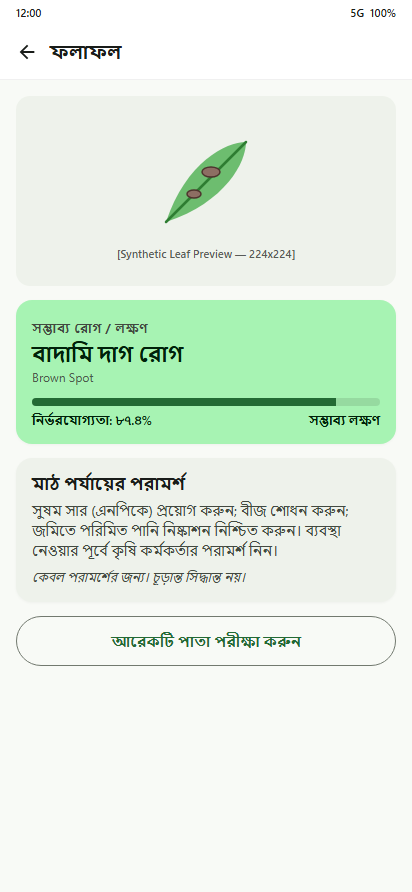
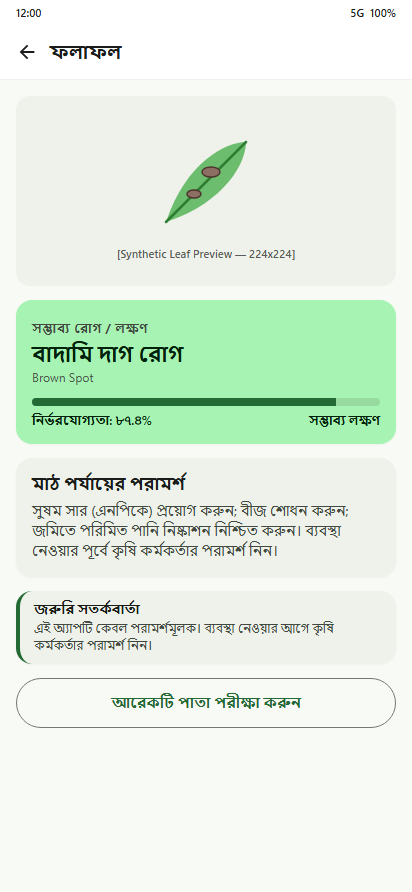
T-060b: design proposal corrections

diff --git a/docs/design/mockups/result_uncertain_dark_bn.html b/docs/design/mockups/result_uncertain_dark_bn.html
@@ -273,7 +273,11 @@ body {
       <!-- D-11 STRICT RULE: NO ADVISORY TEXT OR TREATMENT IS SHOWN -->
       <div class="card card-tonal">
         <h3 class="title-md">করণীয়</h3>
-        <p class="body-md">পাতাটি আপনার নিকটস্থ উপজেলা কৃষি অফিসে নিয়ে যান অথবা উপসহকারী কৃষি কর্মকর্তার সরাসরি পরামর্শ গ্রহণ করুন।</p>
+        <p class="body-md">পাতাটি আপনার নিকটস্থ উপজেলা কৃষি অফিসে (ডিএই) নিয়ে যান এবং কৃষি কর্মকর্তার পরামর্শ গ্রহণ করুন।</p>
+      </div>
+      <div class="card card-tonal" style="border-left: 4px solid var(--primary); padding: 10px 14px;">
+        <h4 class="title-md" style="font-size: 13px; margin-bottom: 2px;">জরুরি সতর্কবার্তা</h4>
+        <p class="body-sm">এই অ্যাপটি কেবল পরামর্শমূলক। ব্যবস্থা নেওয়ার আগে কৃষি কর্মকর্তার পরামর্শ নিন।</p>
       </div>
       <button class="btn-primary">
         <svg width="20" height="20" viewBox="0 0 24 24" fill="currentColor"><path d="M12 15.2a3.2 3.2 0 100-6.4 3.2 3.2 0 000 6.4z"/><path d="M9 2L7.17 4H4c-1.1 0-2 .9-2 2v12c0 1.1.9 2 2 2h16c1.1 0 2-.9 2-2V6c0-1.1-.9-2-2-2h-3.17L15 2H9zm3 15c-2.76 0-5-2.24-5-5s2.24-5 5-5 5 2.24 5 5-2.24 5-5 5z"/></svg>

diff --git a/docs/design/mockups/result_uncertain_light_bn.html b/docs/design/mockups/result_uncertain_light_bn.html
@@ -273,7 +273,11 @@ body {
       <!-- D-11 STRICT RULE: NO ADVISORY TEXT OR TREATMENT IS SHOWN -->
       <div class="card card-tonal">
         <h3 class="title-md">করণীয়</h3>
-        <p class="body-md">পাতাটি আপনার নিকটস্থ উপজেলা কৃষি অফিসে নিয়ে যান অথবা উপসহকারী কৃষি কর্মকর্তার সরাসরি পরামর্শ গ্রহণ করুন।</p>
+        <p class="body-md">পাতাটি আপনার নিকটস্থ উপজেলা কৃষি অফিসে (ডিএই) নিয়ে যান এবং কৃষি কর্মকর্তার পরামর্শ গ্রহণ করুন।</p>
+      </div>
+      <div class="card card-tonal" style="border-left: 4px solid var(--primary); padding: 10px 14px;">
+        <h4 class="title-md" style="font-size: 13px; margin-bottom: 2px;">জরুরি সতর্কবার্তা</h4>
+        <p class="body-sm">এই অ্যাপটি কেবল পরামর্শমূলক। ব্যবস্থা নেওয়ার আগে কৃষি কর্মকর্তার পরামর্শ নিন।</p>
       </div>
       <button class="btn-primary">
         <svg width="20" height="20" viewBox="0 0 24 24" fill="currentColor"><path d="M12 15.2a3.2 3.2 0 100-6.4 3.2 3.2 0 000 6.4z"/><path d="M9 2L7.17 4H4c-1.1 0-2 .9-2 2v12c0 1.1.9 2 2 2h16c1.1 0 2-.9 2-2V6c0-1.1-.9-2-2-2h-3.17L15 2H9zm3 15c-2.76 0-5-2.24-5-5s2.24-5 5-5 5 2.24 5 5-2.24 5-5 5z"/></svg>

diff --git a/docs/design/mockups/result_confident_dark_bn.html b/docs/design/mockups/result_confident_dark_bn.html
@@ -275,7 +275,10 @@ body {
       <div class="card card-tonal">
         <h3 class="title-md">মাঠ পর্যায়ের পরামর্শ</h3>
         <p class="body-md">সুষম সার (এনপিকে) প্রয়োগ করুন; বীজ শোধন করুন; জমিতে পরিমিত পানি নিষ্কাশন নিশ্চিত করুন। ব্যবস্থা নেওয়ার পূর্বে কৃষি কর্মকর্তার পরামর্শ নিন।</p>
-        <p class="body-sm" style="margin-top: 8px; font-style: italic;">কেবল পরামর্শের জন্য। চূড়ান্ত সিদ্ধান্ত নয়।</p>
+      </div>
+      <div class="card card-tonal" style="border-left: 4px solid var(--primary); padding: 10px 14px;">
+        <h4 class="title-md" style="font-size: 13px; margin-bottom: 2px;">জরুরি সতর্কবার্তা</h4>
+        <p class="body-sm">এই অ্যাপটি কেবল পরামর্শমূলক। ব্যবস্থা নেওয়ার আগে কৃষি কর্মকর্তার পরামর্শ নিন।</p>
       </div>
       <button class="btn-outlined">আরেকটি পাতা পরীক্ষা করুন</button>
     </div>

diff --git a/docs/design/mockups/result_confident_light_bn.html b/docs/design/mockups/result_confident_light_bn.html
@@ -275,7 +275,10 @@ body {
       <div class="card card-tonal">
         <h3 class="title-md">মাঠ পর্যায়ের পরামর্শ</h3>
         <p class="body-md">সুষম সার (এনপিকে) প্রয়োগ করুন; বীজ শোধন করুন; জমিতে পরিমিত পানি নিষ্কাশন নিশ্চিত করুন। ব্যবস্থা নেওয়ার পূর্বে কৃষি কর্মকর্তার পরামর্শ নিন।</p>
-        <p class="body-sm" style="margin-top: 8px; font-style: italic;">কেবল পরামর্শের জন্য। চূড়ান্ত সিদ্ধান্ত নয়।</p>
+      </div>
+      <div class="card card-tonal" style="border-left: 4px solid var(--primary); padding: 10px 14px;">
+        <h4 class="title-md" style="font-size: 13px; margin-bottom: 2px;">জরুরি সতর্কবার্তা</h4>
+        <p class="body-sm">এই অ্যাপটি কেবল পরামর্শমূলক। ব্যবস্থা নেওয়ার আগে কৃষি কর্মকর্তার পরামর্শ নিন।</p>
       </div>
       <button class="btn-outlined">আরেকটি পাতা পরীক্ষা করুন</button>
     </div>

diff --git a/docs/design/mockups/result_uncertain_dark_en.html b/docs/design/mockups/result_uncertain_dark_en.html
@@ -273,7 +273,11 @@ body {
       <!-- D-11 STRICT RULE: NO ADVISORY TEXT OR TREATMENT IS SHOWN -->
       <div class="card card-tonal">
         <h3 class="title-md">Recommended Next Step</h3>
-        <p class="body-md">Take this leaf sample to your nearest Upazila Agriculture Extension Office (DAE) or consult a local sub-assistant agriculture officer for expert evaluation.</p>
+        <p class="body-md">Take this leaf sample to your nearest Upazila Agriculture Office (DAE) for expert evaluation.</p>
+      </div>
+      <div class="card card-tonal" style="border-left: 4px solid var(--primary); padding: 10px 14px;">
+        <h4 class="title-md" style="font-size: 13px; margin-bottom: 2px;">Advisory Notice</h4>
+        <p class="body-sm">This tool provides advisory identification only. Consult an agricultural expert before taking action.</p>
       </div>
       <button class="btn-primary">
         <svg width="20" height="20" viewBox="0 0 24 24" fill="currentColor"><path d="M12 15.2a3.2 3.2 0 100-6.4 3.2 3.2 0 000 6.4z"/><path d="M9 2L7.17 4H4c-1.1 0-2 .9-2 2v12c0 1.1.9 2 2 2h16c1.1 0 2-.9 2-2V6c0-1.1-.9-2-2-2h-3.17L15 2H9zm3 15c-2.76 0-5-2.24-5-5s2.24-5 5-5 5 2.24 5 5-2.24 5-5 5z"/></svg>

diff --git a/docs/design/mockups/result_uncertain_light_en.html b/docs/design/mockups/result_uncertain_light_en.html
@@ -273,7 +273,11 @@ body {
       <!-- D-11 STRICT RULE: NO ADVISORY TEXT OR TREATMENT IS SHOWN -->
       <div class="card card-tonal">
         <h3 class="title-md">Recommended Next Step</h3>
-        <p class="body-md">Take this leaf sample to your nearest Upazila Agriculture Extension Office (DAE) or consult a local sub-assistant agriculture officer for expert evaluation.</p>
+        <p class="body-md">Take this leaf sample to your nearest Upazila Agriculture Office (DAE) for expert evaluation.</p>
+      </div>
+      <div class="card card-tonal" style="border-left: 4px solid var(--primary); padding: 10px 14px;">
+        <h4 class="title-md" style="font-size: 13px; margin-bottom: 2px;">Advisory Notice</h4>
+        <p class="body-sm">This tool provides advisory identification only. Consult an agricultural expert before taking action.</p>
       </div>
       <button class="btn-primary">
         <svg width="20" height="20" viewBox="0 0 24 24" fill="currentColor"><path d="M12 15.2a3.2 3.2 0 100-6.4 3.2 3.2 0 000 6.4z"/><path d="M9 2L7.17 4H4c-1.1 0-2 .9-2 2v12c0 1.1.9 2 2 2h16c1.1 0 2-.9 2-2V6c0-1.1-.9-2-2-2h-3.17L15 2H9zm3 15c-2.76 0-5-2.24-5-5s2.24-5 5-5 5 2.24 5 5-2.24 5-5 5z"/></svg>

diff --git a/docs/design/mockups/result_confident_dark_en.html b/docs/design/mockups/result_confident_dark_en.html
@@ -275,7 +275,10 @@ body {
       <div class="card card-tonal">
         <h3 class="title-md">Field Advisory</h3>
         <p class="body-md">Apply balanced fertilizer (NPK); use certified disease-free seeds; ensure field drainage. Consult an agricultural extension officer before taking action.</p>
-        <p class="body-sm" style="margin-top: 8px; font-style: italic;">Advisory only. Not a formal diagnosis.</p>
+      </div>
+      <div class="card card-tonal" style="border-left: 4px solid var(--primary); padding: 10px 14px;">
+        <h4 class="title-md" style="font-size: 13px; margin-bottom: 2px;">Advisory Notice</h4>
+        <p class="body-sm">This tool provides advisory identification only. Consult an agricultural expert before taking action.</p>
       </div>
       <button class="btn-outlined">Scan Another Leaf</button>
     </div>

diff --git a/docs/design/mockups/result_confident_light_en.html b/docs/design/mockups/result_confident_light_en.html
@@ -275,7 +275,10 @@ body {
       <div class="card card-tonal">
         <h3 class="title-md">Field Advisory</h3>
         <p class="body-md">Apply balanced fertilizer (NPK); use certified disease-free seeds; ensure field drainage. Consult an agricultural extension officer before taking action.</p>
-        <p class="body-sm" style="margin-top: 8px; font-style: italic;">Advisory only. Not a formal diagnosis.</p>
+      </div>
+      <div class="card card-tonal" style="border-left: 4px solid var(--primary); padding: 10px 14px;">
+        <h4 class="title-md" style="font-size: 13px; margin-bottom: 2px;">Advisory Notice</h4>
+        <p class="body-sm">This tool provides advisory identification only. Consult an agricultural expert before taking action.</p>
       </div>
       <button class="btn-outlined">Scan Another Leaf</button>
     </div>

diff --git a/docs/design/mockups/about_dark.html b/docs/design/mockups/about_dark.html
@@ -263,11 +263,6 @@ body {
       </div>
 
       <div class="card card-tonal">
-        <h4 class="title-md">Dataset Attribution</h4>
-        <p class="body-sm">Trained on public rice leaf dataset by Mehedi Hasan, Sonia Khatun, Md. Abu Raihan, Abdul Hasib Uddin (Khwaja Yunus Ali University, Sirajganj, Bangladesh).<br>Licensed under Creative Commons Attribution 4.0 International (CC BY 4.0).<br>DOI: 10.17632/hx6f852hw4.2</p>
-      </div>
-
-      <div class="card card-tonal">
         <h4 class="title-md">Advisory Disclaimer</h4>
         <p class="body-sm">This tool is advisory only and provides leaf condition identification from photos. It does not replace professional agricultural advice. Please consult an agricultural extension officer before taking action.</p>
       </div>

diff --git a/docs/design/mockups/about_light.html b/docs/design/mockups/about_light.html
@@ -263,11 +263,6 @@ body {
       </div>
 
       <div class="card card-tonal">
-        <h4 class="title-md">Dataset Attribution</h4>
-        <p class="body-sm">Trained on public rice leaf dataset by Mehedi Hasan, Sonia Khatun, Md. Abu Raihan, Abdul Hasib Uddin (Khwaja Yunus Ali University, Sirajganj, Bangladesh).<br>Licensed under Creative Commons Attribution 4.0 International (CC BY 4.0).<br>DOI: 10.17632/hx6f852hw4.2</p>
-      </div>
-
-      <div class="card card-tonal">
         <h4 class="title-md">Advisory Disclaimer</h4>
         <p class="body-sm">This tool is advisory only and provides leaf condition identification from photos. It does not replace professional agricultural advice. Please consult an agricultural extension officer before taking action.</p>
       </div>

diff --git a/scripts/build_mockups.py b/scripts/build_mockups.py
@@ -1,7 +1,7 @@
 """
 scripts/build_mockups.py
 
-Generates 20 standalone Material 3 HTML wireframes in docs/design/mockups/,
+Generates 22 standalone Material 3 HTML wireframes in docs/design/mockups/,
 renders them to PNG in docs/screenshots/design_proposal/ using Chrome headless,
 optimizes PNGs under 2 MB, and creates docs/design/index.html.
 """
@@ -457,7 +457,10 @@ for theme in ["light", "dark"]:
       <div class="card card-tonal">
         <h3 class="title-md">Field Advisory</h3>
         <p class="body-md">Apply balanced fertilizer (NPK); use certified disease-free seeds; ensure field drainage. Consult an agricultural extension officer before taking action.</p>
-        <p class="body-sm" style="margin-top: 8px; font-style: italic;">Advisory only. Not a formal diagnosis.</p>
+      </div>
+      <div class="card card-tonal" style="border-left: 4px solid var(--primary); padding: 10px 14px;">
+        <h4 class="title-md" style="font-size: 13px; margin-bottom: 2px;">Advisory Notice</h4>
+        <p class="body-sm">This tool provides advisory identification only. Consult an agricultural expert before taking action.</p>
       </div>
       <button class="btn-outlined">Scan Another Leaf</button>
     </div>
@@ -484,7 +487,10 @@ for theme in ["light", "dark"]:
       <div class="card card-tonal">
         <h3 class="title-md">মাঠ পর্যায়ের পরামর্শ</h3>
         <p class="body-md">সুষম সার (এনপিকে) প্রয়োগ করুন; বীজ শোধন করুন; জমিতে পরিমিত পানি নিষ্কাশন নিশ্চিত করুন। ব্যবস্থা নেওয়ার পূর্বে কৃষি কর্মকর্তার পরামর্শ নিন।</p>
-        <p class="body-sm" style="margin-top: 8px; font-style: italic;">কেবল পরামর্শের জন্য। চূড়ান্ত সিদ্ধান্ত নয়।</p>
+      </div>
+      <div class="card card-tonal" style="border-left: 4px solid var(--primary); padding: 10px 14px;">
+        <h4 class="title-md" style="font-size: 13px; margin-bottom: 2px;">জরুরি সতর্কবার্তা</h4>
+        <p class="body-sm">এই অ্যাপটি কেবল পরামর্শমূলক। ব্যবস্থা নেওয়ার আগে কৃষি কর্মকর্তার পরামর্শ নিন।</p>
       </div>
       <button class="btn-outlined">আরেকটি পাতা পরীক্ষা করুন</button>
     </div>
@@ -513,7 +519,11 @@ for theme in ["light", "dark"]:
       <!-- D-11 STRICT RULE: NO ADVISORY TEXT OR TREATMENT IS SHOWN -->
       <div class="card card-tonal">
         <h3 class="title-md">Recommended Next Step</h3>
-        <p class="body-md">Take this leaf sample to your nearest Upazila Agriculture Extension Office (DAE) or consult a local sub-assistant agriculture officer for expert evaluation.</p>
+        <p class="body-md">Take this leaf sample to your nearest Upazila Agriculture Office (DAE) for expert evaluation.</p>
+      </div>
+      <div class="card card-tonal" style="border-left: 4px solid var(--primary); padding: 10px 14px;">
+        <h4 class="title-md" style="font-size: 13px; margin-bottom: 2px;">Advisory Notice</h4>
+        <p class="body-sm">This tool provides advisory identification only. Consult an agricultural expert before taking action.</p>
       </div>
       <button class="btn-primary">
         <svg width="20" height="20" viewBox="0 0 24 24" fill="currentColor"><path d="M12 15.2a3.2 3.2 0 100-6.4 3.2 3.2 0 000 6.4z"/><path d="M9 2L7.17 4H4c-1.1 0-2 .9-2 2v12c0 1.1.9 2 2 2h16c1.1 0 2-.9 2-2V6c0-1.1-.9-2-2-2h-3.17L15 2H9zm3 15c-2.76 0-5-2.24-5-5s2.24-5 5-5 5 2.24 5 5-2.24 5-5 5z"/></svg>
@@ -542,7 +552,11 @@ for theme in ["light", "dark"]:
       <!-- D-11 STRICT RULE: NO ADVISORY TEXT OR TREATMENT IS SHOWN -->
       <div class="card card-tonal">
         <h3 class="title-md">করণীয়</h3>
-        <p class="body-md">পাতাটি আপনার নিকটস্থ উপজেলা কৃষি অফিসে নিয়ে যান অথবা উপসহকারী কৃষি কর্মকর্তার সরাসরি পরামর্শ গ্রহণ করুন।</p>
+        <p class="body-md">পাতাটি আপনার নিকটস্থ উপজেলা কৃষি অফিসে (ডিএই) নিয়ে যান এবং কৃষি কর্মকর্তার পরামর্শ গ্রহণ করুন।</p>
+      </div>
+      <div class="card card-tonal" style="border-left: 4px solid var(--primary); padding: 10px 14px;">
+        <h4 class="title-md" style="font-size: 13px; margin-bottom: 2px;">জরুরি সতর্কবার্তা</h4>
+        <p class="body-sm">এই অ্যাপটি কেবল পরামর্শমূলক। ব্যবস্থা নেওয়ার আগে কৃষি কর্মকর্তার পরামর্শ নিন।</p>
       </div>
       <button class="btn-primary">
         <svg width="20" height="20" viewBox="0 0 24 24" fill="currentColor"><path d="M12 15.2a3.2 3.2 0 100-6.4 3.2 3.2 0 000 6.4z"/><path d="M9 2L7.17 4H4c-1.1 0-2 .9-2 2v12c0 1.1.9 2 2 2h16c1.1 0 2-.9 2-2V6c0-1.1-.9-2-2-2h-3.17L15 2H9zm3 15c-2.76 0-5-2.24-5-5s2.24-5 5-5 5 2.24 5 5-2.24 5-5 5z"/></svg>
@@ -635,11 +649,6 @@ for theme in ["light", "dark"]:
       </div>
 
       <div class="card card-tonal">
-        <h4 class="title-md">Dataset Attribution</h4>
-        <p class="body-sm">Trained on public rice leaf dataset by Mehedi Hasan, Sonia Khatun, Md. Abu Raihan, Abdul Hasib Uddin (Khwaja Yunus Ali University, Sirajganj, Bangladesh).<br>Licensed under Creative Commons Attribution 4.0 International (CC BY 4.0).<br>DOI: 10.17632/hx6f852hw4.2</p>
-      </div>
-
-      <div class="card card-tonal">
         <h4 class="title-md">Advisory Disclaimer</h4>
         <p class="body-sm">This tool is advisory only and provides leaf condition identification from photos. It does not replace professional agricultural advice. Please consult an agricultural extension officer before taking action.</p>
       </div>
@@ -648,7 +657,7 @@ for theme in ["light", "dark"]:
     html = generate_html(f"About ({theme})", theme, about_content, app_bar_title="About & Credits", active_tab="about")
     (MOCKUPS_DIR / f"about_{theme}.html").write_text(html, encoding="utf-8")
 
-print(f"All 20 HTML files generated successfully in {MOCKUPS_DIR}")
+print(f"All 22 HTML files generated successfully in {MOCKUPS_DIR}")
 
 # ==============================================================================
 # 9. RENDER PNGs VIA CHROME HEADLESS

diff --git a/docs/design/ui_spec.md b/docs/design/ui_spec.md
@@ -96,7 +96,7 @@ The primary operational screen allowing farmers and extension officers to captur
 ---
 
 ### 3.4 Result Screen: Confident State ($\ge 60\%$ Confidence)
-Rendered when model top prediction has confidence $\ge 60\%$. Displays condition name, confidence %, and field advisory note.
+Rendered when model top prediction has confidence $\ge 60\%$. Displays condition name, confidence %, field advisory note, and compact disclaimer card.
 
 - **Layout Structure**: Top App Bar with back arrow, vertical scrollable content.
 
@@ -106,13 +106,14 @@ Rendered when model top prediction has confidence $\ge 60\%$. Displays condition
 | 2 | Upper Body | `image` (Captured Photo Preview) | Full width, 200 dp height | Thumbnail of analyzed leaf photo | `surfaceVariant` (border) | Displays image preview with subtle rounded corners (12 dp). |
 | 3 | Middle Body | `card` (Likely Condition Card) | Full width, ~140 dp height | Header: `"Likely Condition"` [NEW] / `"সম্ভাব্য রোগ / লক্ষণ"` [NEW]. Title: Disease Name (e.g., `"Brown Spot"` (`diseaseBrownSpot`) / `"বাদামি দাগ রোগ"`). Subtitle: Alternate language name. | Card: `primaryContainer`; Title: `onPrimaryContainer` (bold 22sp); Subtitle: `onPrimaryContainer` (14sp) | High-prominence card identifying the likely condition. |
 | 4 | Inside Condition Card | `bar` (Confidence Bar) + `text` | Height 8 dp bar + 20 dp text | `"Confidence: 87.4% (Likely)"` (`confidenceLabel` + [NEW]) / `"নির্ভরযোগ্যতা: ৮৭.৪% (সম্ভাব্য)"` | Progress: `primary`; Track: `surfaceVariant`; Text: `onPrimaryContainer` | Horizontal progress bar showing confidence percentage. If reduce-motion is enabled, renders filled bar without fill animation. |
-| 5 | Lower Body | `card` (Field Advisory Card) | Full width, ~160 dp height | Header: `"Field Advisory"` (`advisoryTitle`) / `"মাঠ পর্যায়ের পরামর্শ"`. Body: Recommended agricultural management practices from local JSON. Footer: `"Consult an upazila agricultural extension officer before taking chemical measures."` [NEW] | `surfaceVariant` (bg), `onSurfaceVariant` (text) | Displays non-prescriptive advisory note (F-06). |
-| 6 | Bottom Body | `button` (OutlinedButton) | Full width, 50 dp height | Icon: `Icons.replay`; Label: `"Scan Another Leaf"` [NEW] / `"আরেকটি পাতা পরীক্ষা করুন"` [NEW] | `outline` (border), `primary` (text/icon) | Clears state and returns to Scan screen. |
+| 5 | Lower Body | `card` (Field Advisory Card) | Full width, ~160 dp height | Header: `"Field Advisory"` (`advisoryTitle`) / `"মাঠ পর্যায়ের পরামর্শ"`. Body: Recommended agricultural management practices from local JSON. Footer: `"Consult an upazila agricultural extension officer before taking chemical measures."` [NEW] | `surfaceVariant` (bg), `onSurfaceVariant` (text) | Displays non-prescriptive advisory note (F-06). Prohibited terms like "diagnosis" and "cure" strictly omitted. |
+| 6 | Lower Body | `card` (Compact Disclaimer Card) | Full width, ~70 dp height | Header: `"Advisory Notice"` (`disclaimerTitle`) / `"জরুরি সতর্কবার্তা"`. Text: `"This tool provides advisory identification only. Consult an agricultural expert before taking action."` [NEW] / `"এই অ্যাপটি কেবল পরামর্শমূলক। ব্যবস্থা নেওয়ার আগে কৃষি কর্মকর্তার পরামর্শ নিন।"` [NEW] | `surfaceVariant` (bg), `onSurfaceVariant` (text) | Compact disclaimer card (F-08) rendered permanently. |
+| 7 | Bottom Body | `button` (OutlinedButton) | Full width, 50 dp height | Icon: `Icons.replay`; Label: `"Scan Another Leaf"` [NEW] / `"আরেকটি পাতা পরীক্ষা করুন"` [NEW] | `outline` (border), `primary` (text/icon) | Clears state and returns to Scan screen. |
 
 ---
 
 ### 3.5 Result Screen: Uncertain State ($< 60\%$ Confidence)
-Rendered when model top prediction has confidence $< 60\%$ (D-11, F-05). Displays warning banner and weak guess; **strictly omits field advisory / treatment section**.
+Rendered when model top prediction has confidence $< 60\%$ (D-11, F-05). Displays warning banner and weak guess; **strictly omits field advisory / treatment section**; includes next steps directing user to Upazila Agriculture Office (DAE) and compact disclaimer card.
 
 - **Layout Structure**: Top App Bar with back arrow, vertical scrollable content.
 
@@ -123,8 +124,10 @@ Rendered when model top prediction has confidence $< 60\%$ (D-11, F-05). Display
 | 3 | Middle Body | `banner` / `card` (Uncertain Warning Banner) | Full width, ~180 dp height | Icon: `Icons.warning_amber_rounded` (36 dp). Title: `"Uncertain Result"` (`uncertainTitle`) / `"অনিশ্চিত ফলাফল"`. Body: `"Confidence is low. Please consult an agricultural expert for guidance."` (`uncertainDescription`) / `app_bn.arb`. | Container: `errorContainer`; Title & Icon: `onErrorContainer` (bold 20sp); Body: `onErrorContainer` (14sp) | High-visibility warning container. Informs farmer that AI confidence is below safety threshold (D-11). |
 | 4 | Inside Banner | `card` (Weak Guess Pill) | Full width, ~50 dp height | `"Possible condition: Brown Spot (52.0%)"` (`weakGuessPrefix` + [NEW]) / `"সম্ভাব্য লক্ষণ: বাদামি দাগ রোগ (৫২.০%)"` | Container: `surface` (50% opacity); Text: `onErrorContainer` (medium 14sp) | Reports top class strictly as an unconfirmed weak guess. |
 | 5 | Hidden Section | **NO ADVISORY CARD** | 0 dp height | None | N/A | **Enforces Rule D-11**: The field advisory section is entirely hidden. No spray, fertilizer, or cultural treatment advice is displayed. |
-| 6 | Lower Body | `card` (Next Steps Card) | Full width, ~110 dp height | Header: `"Recommended Next Step"` [NEW] / `"করণীয়"` [NEW]. Text: `"Show this leaf sample to your local Upazila Agriculture Office (DAE) or sub-assistant agriculture officer."` [NEW] / `"এই পাতাটি আপনার স্থানীয় উপসহকারী কৃষি কর্মকর্তাকে দেখান।"` [NEW] | `surfaceVariant` (bg), `onSurfaceVariant` (text) | Directs farmer to local human expert. |
-| 7 | Bottom Body | `button` (FilledButton) | Full width, 50 dp height | Icon: `Icons.camera_alt`; Label: `"Retake Photo in Better Light"` [NEW] / `"ভালো আলোতে পুনরায় ছবি তুলুন"` [NEW] | `primary` (bg), `onPrimary` (text) | Encourages retaking photo with better lighting or focus. |
+| 6 | Lower Body | `card` (Next Steps Card) | Full width, ~110 dp height | Header: `"Recommended Next Step"` [NEW] / `"করণীয়"` [NEW]. Text: `"Take this leaf sample to your nearest Upazila Agriculture Office (DAE) for expert evaluation."` [NEW] / `"পাতাটি আপনার নিকটস্থ উপজেলা কৃষি অফিসে (ডিএই) নিয়ে যান এবং কৃষি কর্মকর্তার পরামর্শ গ্রহণ করুন।"` [NEW] | `surfaceVariant` (bg), `onSurfaceVariant` (text) | Directs farmer to Upazila Agriculture Office (DAE). |
+| 7 | Lower Body | `card` (Compact Disclaimer Card) | Full width, ~70 dp height | Header: `"Advisory Notice"` (`disclaimerTitle`) / `"জরুরি সতর্কবার্তা"`. Text: `"This tool provides advisory identification only. Consult an agricultural expert before taking action."` [NEW] / `"এই অ্যাপটি কেবল পরামর্শমূলক। ব্যবস্থা নেওয়ার আগে কৃষি কর্মকর্তার পরামর্শ নিন।"` [NEW] | `surfaceVariant` (bg), `onSurfaceVariant` (text) | Compact disclaimer card (F-08) rendered permanently. |
+| 8 | Bottom Body | `button` (FilledButton) | Full width, 50 dp height | Icon: `Icons.camera_alt`; Label: `"Retake Photo in Better Light"` [NEW] / `"ভালো আলোতে পুনরায় ছবি তুলুন"` [NEW] | `primary` (bg), `onPrimary` (text) | Encourages retaking photo with better lighting or focus. |
+| 9 | Bottom Body | `button` (OutlinedButton) | Full width, 50 dp height | Icon: `Icons.arrow_back`; Label: `"Back to Scan"` [NEW] / `"স্ক্যানে ফিরে যান"` [NEW] | `outline` (border), `primary` (text/icon) | Returns to Scan screen. |
 
 ---
 
@@ -152,7 +155,7 @@ Rendered when model top prediction has confidence $< 60\%$ (D-11, F-05). Display
 ---
 
 ### 3.7 About Screen (Inside Shell: Tab 3)
-Contains app identification, academic credits, third-party licenses, and official disclaimer.
+Contains app identification, academic credits, third-party licenses, and official disclaimer. Verbatim dataset attribution is excluded per project policy (retained only in `README.md` and `docs/dataset_card.md`).
 
 - **Layout Structure**: Vertical scrollable column.
 
@@ -161,8 +164,7 @@ Contains app identification, academic credits, third-party licenses, and officia
 | 1 | Top | `app bar` | Full width, 56 dp height | Title: `"About & Credits"` (`aboutTitle` / [NEW]) / `"অ্যাপ পরিচিতি ও স্বীকৃতি"` [NEW] | `surface` (bg), `onSurface` (text) | App bar. |
 | 2 | Top Body | `card` (App Identity Card) | Full width, ~100 dp height | App Name: `"Rice Leaf Disease Detection"` (`appTitle`). Version: `"Version 1.0.0 (Build 1)"` (`versionLabel` + [NEW]). Researcher: `"Mehedi Hasan — B.Sc. Final Year Project"` [NEW] | Container: `primaryContainer`; Text: `onPrimaryContainer` | Identifies application and academic project attribution. |
 | 3 | Middle Body | `card` (Open Source & License) | Full width, ~140 dp height | Header: `"License Information"` (`licenseTitle`). Body: `"Released under the MIT License (D-01).\nEmbedded font Noto Sans Bengali licensed under SIL Open Font License, Version 1.1 (OFL-1.1)."` (`licenseText` / `docs/licenses_third_party.md`). | `surfaceVariant` (bg), `onSurfaceVariant` (text) | Legal license declaration. |
-| 4 | Middle Body | `card` (Dataset Attribution) | Full width, ~180 dp height | Header: `"Dataset Credits (Hasan et al.)"` (`creditsTitle`). Body: `"Trained on public rice leaf disease dataset by Mehedi Hasan, Sonia Khatun, Md. Abu Raihan, Abdul Hasib Uddin (Khwaja Yunus Ali University, Sirajganj, Bangladesh).\nLicensed under Creative Commons Attribution 4.0 International (CC BY 4.0).\nDOI: 10.17632/hx6f852hw4.2"` (`data/metadata/licenses.md`). | `surfaceVariant` (bg), `onSurfaceVariant` (text) | Exact academic attribution mandated by CC BY 4.0 and Section 12. |
-| 5 | Lower Body | `card` (Advisory Notice) | Full width, ~130 dp height | Header: `"Advisory Disclaimer"` (`disclaimerTitle`). Body: `"This tool is advisory only and provides leaf condition identification from photos. It does not replace professional agricultural advice. Please consult an agricultural extension officer before taking action."` (`disclaimerText`). | Card: `surfaceVariant`; Text: `onSurfaceVariant` | Mandatory visible legal disclaimer (F-08). |
+| 4 | Lower Body | `card` (Advisory Notice) | Full width, ~130 dp height | Header: `"Advisory Disclaimer"` (`disclaimerTitle`). Body: `"This tool is advisory only and provides leaf condition identification from photos. It does not replace professional agricultural advice. Please consult an agricultural extension officer before taking action."` (`disclaimerText`). | Card: `surfaceVariant`; Text: `onSurfaceVariant` | Mandatory visible legal disclaimer (F-08). |
 
 ---
 
@@ -192,7 +194,8 @@ Contains app identification, academic credits, third-party licenses, and officia
      │ [ Result: Confident ]      [ Result: Uncertain ]                                │
      │  - Likely condition card    - Warning banner (D-11)                             │
      │  - Confidence %             - Weak guess (no treatment)                         │
-     │  - Field advisory           - Expert consult advice                             │
+     │  - Field advisory           - Expert consult advice (DAE)                       │
+     │  - Compact disclaimer card  - Compact disclaimer card                           │
      │                                                                                 │
      │   [ Tab 2: History Screen ]                                                     │
      │     - State A: Empty State (0 scans)                                            │
@@ -201,7 +204,40 @@ Contains app identification, academic credits, third-party licenses, and officia
      │   [ Tab 3: About Screen ]                                                       │
      │     - Version & Author                                                          │
      │     - MIT License & Noto Sans Bengali OFL 1.1                                   │
-     │     - Hasan et al. CC BY 4.0 Citation & DOI                                     │
      │     - Advisory Disclaimer (F-08)                                                │
      └─────────────────────────────────────────────────────────────────────────────────┘
 ```
+
+---
+
+## 5. Mockups & Wireframes Inventory (Count Reconciliation)
+
+The proposed design includes exactly **22 standalone HTML wireframes** and **22 rendered PNG screenshots** covering 8 screens/states across light/dark themes and localizations:
+
+| # | Screen / Feature | Theme & Locale | HTML Wireframe (`docs/design/mockups/`) | Rendered PNG (`docs/screenshots/design_proposal/`) |
+|---|---|---|---|---|
+| 1 | Splash Screen | Light (Default) | `splash_light.html` | `splash_light.png` |
+| 2 | Splash Screen | Dark | `splash_dark.html` | `splash_dark.png` |
+| 3 | Onboarding Screen | Light (EN/BN toggleable) | `onboarding_light.html` | `onboarding_light.png` |
+| 4 | Onboarding Screen | Dark (EN/BN toggleable) | `onboarding_dark.html` | `onboarding_dark.png` |
+| 5 | Scan Screen (Home Tab) | Light, English | `scan_light_en.html` | `scan_light_en.png` |
+| 6 | Scan Screen (Home Tab) | Dark, English | `scan_dark_en.html` | `scan_dark_en.png` |
+| 7 | Scan Screen (Home Tab) | Light, Bangla | `scan_light_bn.html` | `scan_light_bn.png` |
+| 8 | Scan Screen (Home Tab) | Dark, Bangla | `scan_dark_bn.html` | `scan_dark_bn.png` |
+| 9 | Result: Confident State ($\ge 60\%$) | Light, English | `result_confident_light_en.html` | `result_confident_light_en.png` |
+| 10 | Result: Confident State ($\ge 60\%$) | Dark, English | `result_confident_dark_en.html` | `result_confident_dark_en.png` |
+| 11 | Result: Confident State ($\ge 60\%$) | Light, Bangla | `result_confident_light_bn.html` | `result_confident_light_bn.png` |
+| 12 | Result: Confident State ($\ge 60\%$) | Dark, Bangla | `result_confident_dark_bn.html` | `result_confident_dark_bn.png` |
+| 13 | Result: Uncertain State ($< 60\%$) | Light, English | `result_uncertain_light_en.html` | `result_uncertain_light_en.png` |
+| 14 | Result: Uncertain State ($< 60\%$) | Dark, English | `result_uncertain_dark_en.html` | `result_uncertain_dark_en.png` |
+| 15 | Result: Uncertain State ($< 60\%$) | Light, Bangla | `result_uncertain_light_bn.html` | `result_uncertain_light_bn.png` |
+| 16 | Result: Uncertain State ($< 60\%$) | Dark, Bangla | `result_uncertain_dark_bn.html` | `result_uncertain_dark_bn.png` |
+| 17 | History: Empty State | Light | `history_empty_light.html` | `history_empty_light.png` |
+| 18 | History: Empty State | Dark | `history_empty_dark.html` | `history_empty_dark.png` |
+| 19 | History: List Layout | Light | `history_list_light.html` | `history_list_light.png` |
+| 20 | History: List Layout | Dark | `history_list_dark.html` | `history_list_dark.png` |
+| 21 | About Screen | Light | `about_light.html` | `about_light.png` |
+| 22 | About Screen | Dark | `about_dark.html` | `about_dark.png` |
+
+- **True Counts**: 22 HTML wireframes and 22 PNG screenshots.
+- **Folder Size**: `docs/screenshots/design_proposal/` total size is 0.61 MB (well below the 2.0 MB ceiling).
